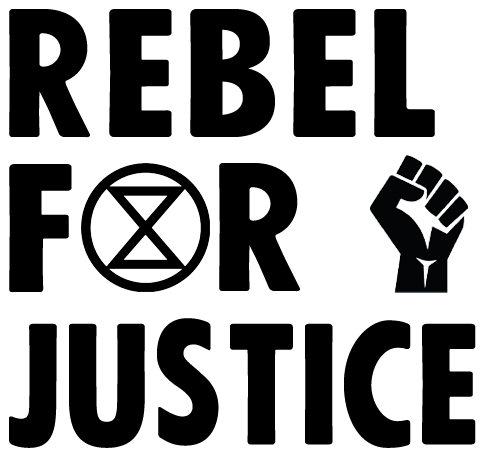
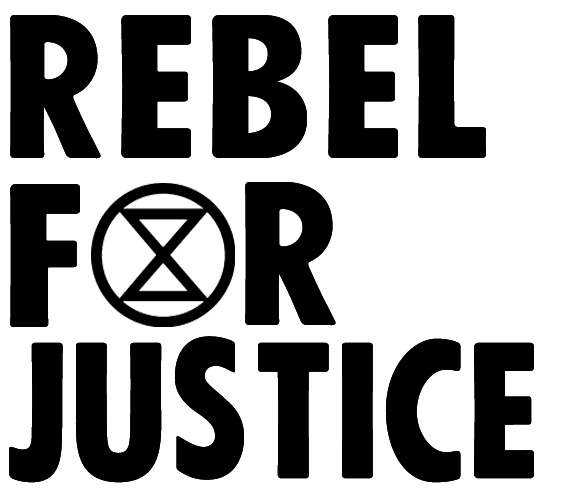
Update Rebel 4 Justice page

diff --git a/_sass/xr-blocks/_footer.scss b/_sass/xr-blocks/_footer.scss
@@ -1,96 +1,96 @@
 .footer {
-  margin-top: auto;
+	margin-top: auto;
 
-  @include colourize();
-  background-color: var(--background-color);
-  color: var(--color);
-  display: flex;
-  flex-direction: column;
-  box-sizing: border-box;
-  padding: 40px 20px;
-  align-items: flex-start;
+	@include colourize();
+	background-color: var(--background-color);
+	color: var(--color);
+	display: flex;
+	flex-direction: column;
+	box-sizing: border-box;
+	padding: 40px 20px;
+	align-items: flex-start;
 
-  @include breakpoint($medium) {
-    align-items: center;
-    padding: 60px;
-  }
+	@include breakpoint($medium) {
+		align-items: center;
+		padding: 40px;
+	}
 }
 
 .footer__socialIcons {
-  display: flex;
-  flex-direction: column;
-  list-style: none;
-  padding: 0;
-  margin-top: 0;
-  margin-left: 0;
-  margin-right: 0;
-  margin-bottom: 20px;
+	display: flex;
+	flex-direction: column;
+	list-style: none;
+	padding: 0;
+	margin-top: 0;
+	margin-left: 0;
+	margin-right: 0;
+	margin-bottom: 20px;
 
-  @include breakpoint($medium) {
-    flex-direction: row;
-    margin-bottom: 0;
-  }
+	@include breakpoint($medium) {
+		flex-direction: row;
+		margin-bottom: 0;
+	}
 }
 
 .footer__socialIconsItem {
-  display: flex;
-  flex-direction: column;
-  font-family: var(--heading-font);
-  font-size: var(--prominent-font-size);
-  color: var(--color);
-  margin-top: 0;
-  margin-right: 0;
-  margin-left: 0;
-  margin-bottom: 20px;
+	display: flex;
+	flex-direction: column;
+	font-family: var(--heading-font);
+	font-size: var(--prominent-font-size);
+	color: var(--color);
+	margin-top: 0;
+	margin-right: 0;
+	margin-left: 0;
+	margin-bottom: 20px;
 
-  @include breakpoint($medium) {
-    font-size: inherit;
-    margin-right: 30px;
-    margin-bottom: 0;
+	@include breakpoint($medium) {
+		font-size: 24px;
+		margin-right: 30px;
+		margin-bottom: 0;
 
-    &:last-of-type {
-      margin-right: 0;
-    }
-  }
+		&:last-of-type {
+			margin-right: 0;
+		}
+	}
 
-  @include breakpoint(1000px) {
-    font-size: var(--prominent-font-size);
-  }
+	@include breakpoint(1000px) {
+		font-size: var(--prominent-font-size);
+	}
 }
 
 .footer__socialIcons-link {
-  text-decoration: none;
-  display: flex;
-  flex-direction: row;
-  align-items: center;
-  justify-content: flex-start;
+	text-decoration: none;
+	display: flex;
+	flex-direction: row;
+	align-items: center;
+	justify-content: flex-start;
 }
 
 .footer__socialIconsItemIcon {
-  width: 60px;
-  display: flex;
-  justify-content: center;
+	width: 60px;
+	display: flex;
+	justify-content: center;
 
-  @include breakpoint($medium) {
-    width: auto;
-    margin-right: 10px;
-  }
+	@include breakpoint($medium) {
+		width: auto;
+		margin-right: 10px;
+	}
 }
 
 .footer__logo {
-  display: none;
-  margin-top: 40px;
-  margin-bottom: 40px;
+	display: none;
+	margin-top: 40px;
+	margin-bottom: 40px;
 
-  @media screen and (min-width: $medium) {
-    display: flex;
-  }
+	@media screen and (min-width: $medium) {
+		display: flex;
+	}
 }
 
 .footer__copyright {
-  display: flex;
-  flex-direction: column;
-  font-family: var(--body-font);
-  font-size: var(--body-font-size);
-  color: var(--color);
+	display: flex;
+	flex-direction: column;
+	font-family: var(--body-font);
+	font-size: var(--body-font-size);
+	color: var(--color);
 }

diff --git a/_pages/rebel-for-justice.html b/_pages/rebel-for-justice.html
@@ -1,15 +1,16 @@
 ---
 layout: splash
-permalink: '/rebel-4-justice'
+permalink: '/rebel-for-justice'
 title: Rebel for Justice
-page-title: From 16th February
+page-title: 16-23 February
 description: 'From 16th February, XR Cambridge and XR Youth Cambridge will bring the city to a halt with a week-long roadblock if the institutions of Cambridge do not meet our three local demands on climate and social justice.'
-excerpt: <img alt="Northern Rebellion Logo" src='/assets/images/nrb/rebel-for-justice-black.png'/>
+excerpt: <img alt="Rebel for Justice Logo" src='/assets/images/nrb/rebel-for-justice-black.png'/>
+raised-fist: true
 header:
   overlay_image: /assets/images/nrb/r4j-background.png
   black_text: true
-logo:
-  title: <img alt="Northern Rebellion Logo" src='/assets/images/nrb/rebel-for-justice-black.png'/>
+<!-- logo:
+  title: <img alt="Northern Rebellion Logo" src='/assets/images/nrb/rebel-for-justice-black.png'/> -->
 ---
 
 {% include meta/nrb-schema-org.html %}
@@ -17,10 +18,14 @@ logo:
 <p>
 	From 16th February, XR Cambridge and XR Youth Cambridge will bring the city to
 	a halt with a week-long roadblock if the institutions of Cambridge do not meet
-	our three local demands on climate and social justice.
+	our three local demands on climate and social justice:
 </p>
 
-{% include content/three_key_demands.html %}
+<div class="three-demands">
+	<img src="../assets/images/demand-1.jpg" />
+	<img src="../assets/images/demand-2.jpg" />
+	<img src="../assets/images/demand-3.jpg" />
+</div>
 
 <h2>Climate Justice Is Social Justice</h2>
 <p>

diff --git a/_includes/page__hero.html b/_includes/page__hero.html
@@ -34,7 +34,7 @@
   style="{% if page.header.overlay_color %}background-color: {{ page.header.overlay_color | default: 'transparent' }};{% endif %} {% if overlay_img_path %}background-image: url('{{ overlay_img_path }}');{% endif %}"
 >
   {% if page.header.overlay_color or page.header.overlay_image %}
-    <div class="wrapper">
+    <div class="wrapper {% if page.raised-fist %}showRaisedFist{% endif %}">
       <h1 id="page-title" class="page__title" itemprop="headline"{% if page.header.black_text %} style="color: #000000; text-shadow: none;"{% endif %}>
         {% if paginator and site.paginate_show_page_num %}
           {{ site.title }}{% unless paginator.page == 1 %} {{ site.data.ui-text[site.locale].page | default: "Page" }} {{ paginator.page }}{% endunless %}

diff --git a/_sass/minimal-mistakes/_page.scss b/_sass/minimal-mistakes/_page.scss
@@ -171,6 +171,15 @@
 			}
 		}
 
+		@include breakpoint($large) {
+			.wrapper.showRaisedFist {
+				background-image: url('../../assets/images/raised-fist.png');
+				background-repeat: no-repeat;
+				background-position-x: right 50px;
+				background-position-y: bottom;
+			}
+		}
+
 		.page__title,
 		.page__meta,
 		.page__lead,

diff --git a/_sass/custom.scss b/_sass/custom.scss
@@ -10,3 +10,14 @@
 		margin-top: 5px !important;
 	}
 }
+
+@include breakpoint($large) {
+	.three-demands {
+		display: flex;
+		margin-top: -20px;
+
+		img {
+			padding: 10px;
+		}
+	}
+}
